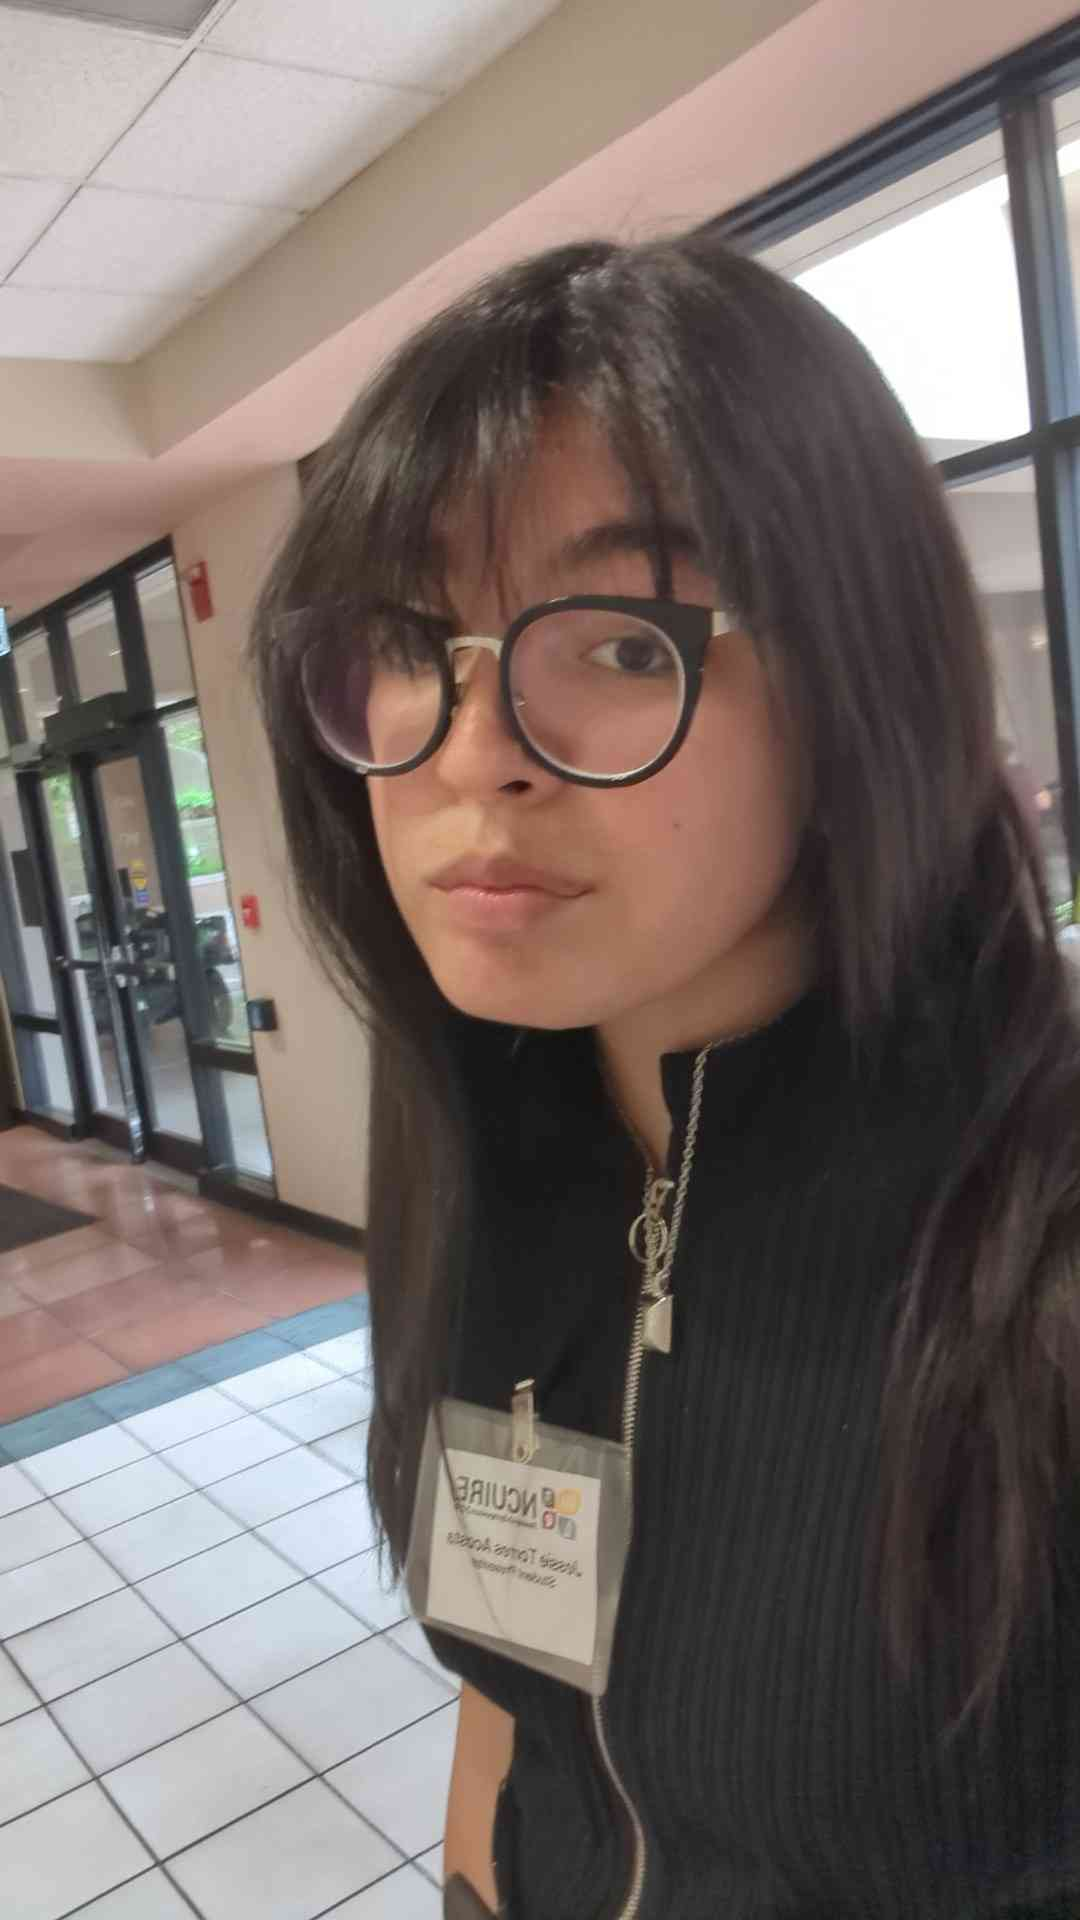
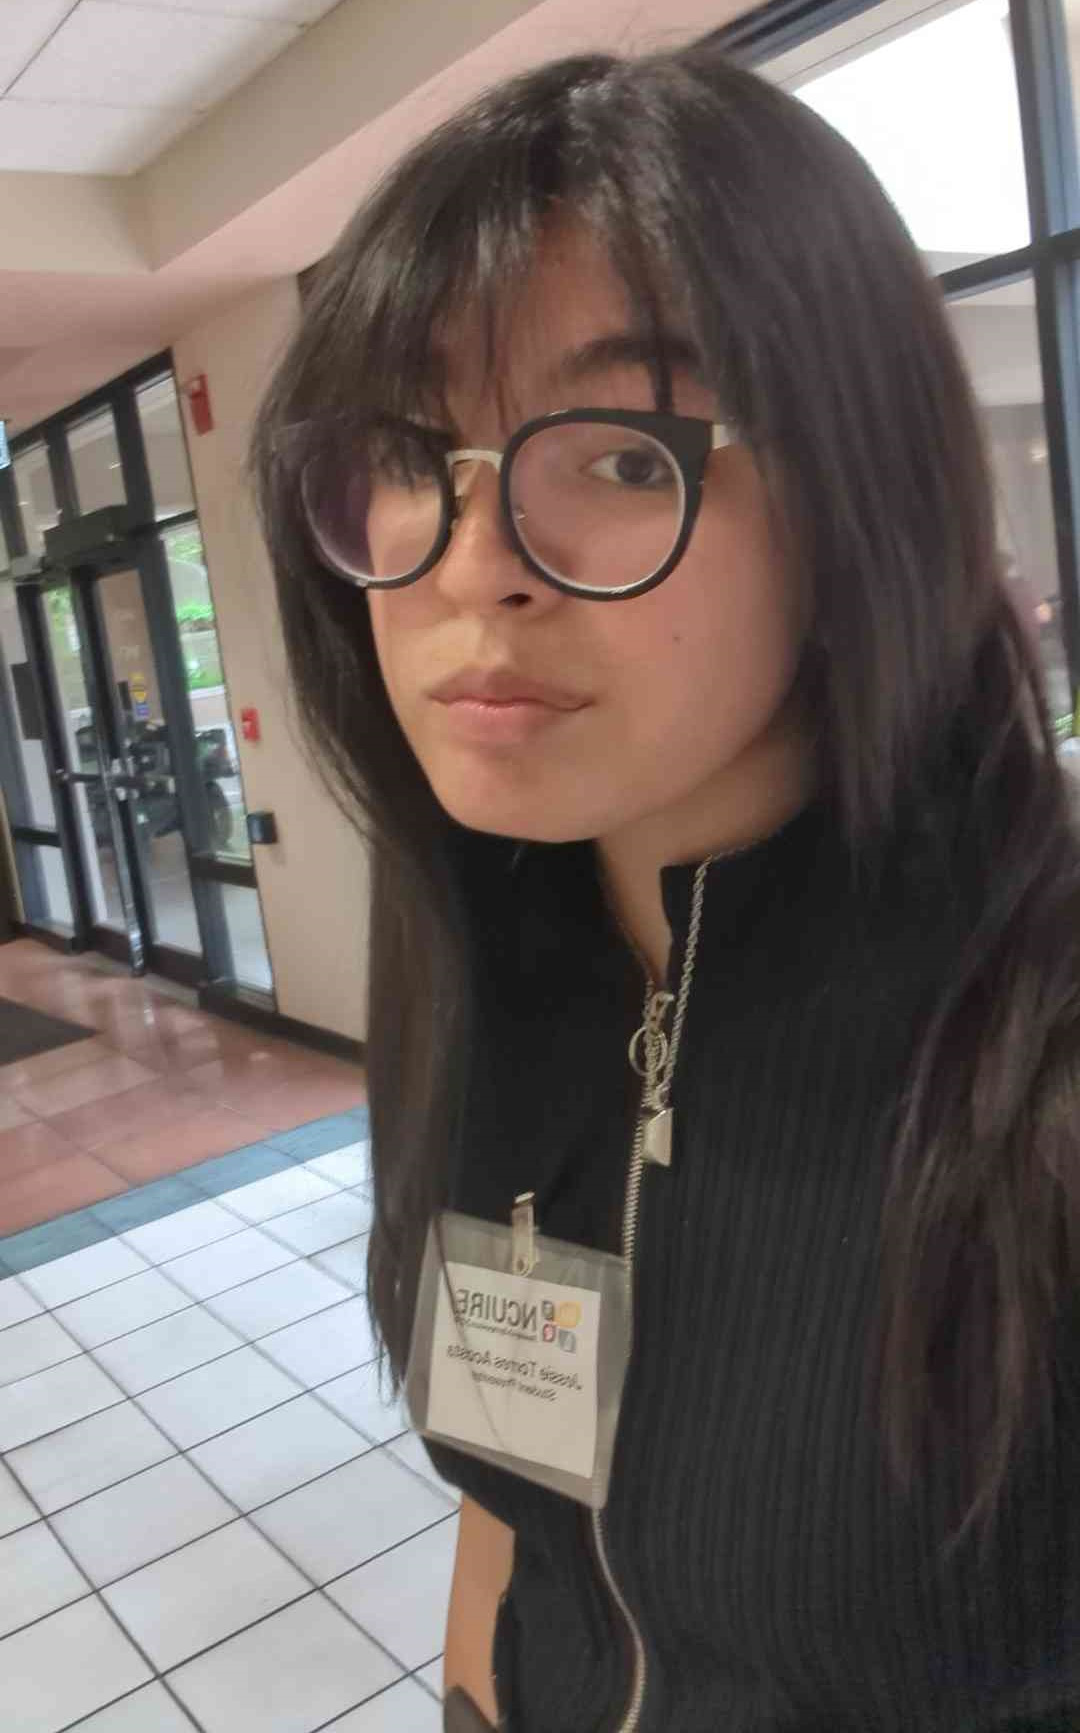
cropped self

diff --git a/style.css b/style.css
@@ -96,6 +96,16 @@ body main h1{
 
 }
 footer {
+    padding: 10px;
+    text-align: center;
+    font-family: "Montserrat", serif;
+    font-optical-sizing: auto;
+    font-weight: light;
+    font-style: normal;
+    background: linear-gradient(to top, #8163b9, #44277aa0); /* Add gradient */
+    /* border-bottom-right-radius: 14pt;  Apply radius after gradient */
+    /* border-bottom-left-radius: 14pt; */
+    border-radius: 0 0 14pt 14pt;
     text-align: center;
     height:100px;
     padding: 10px;
